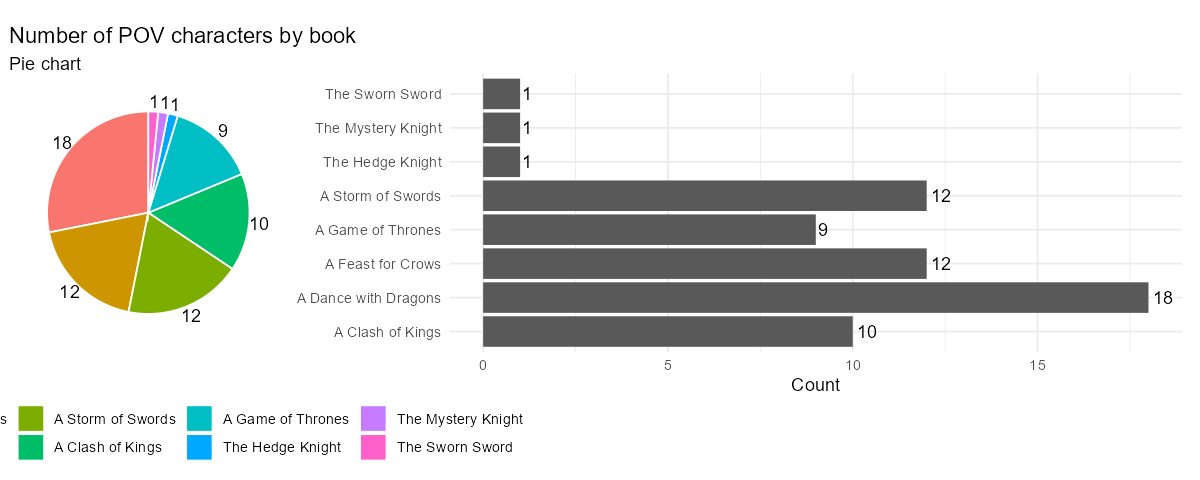
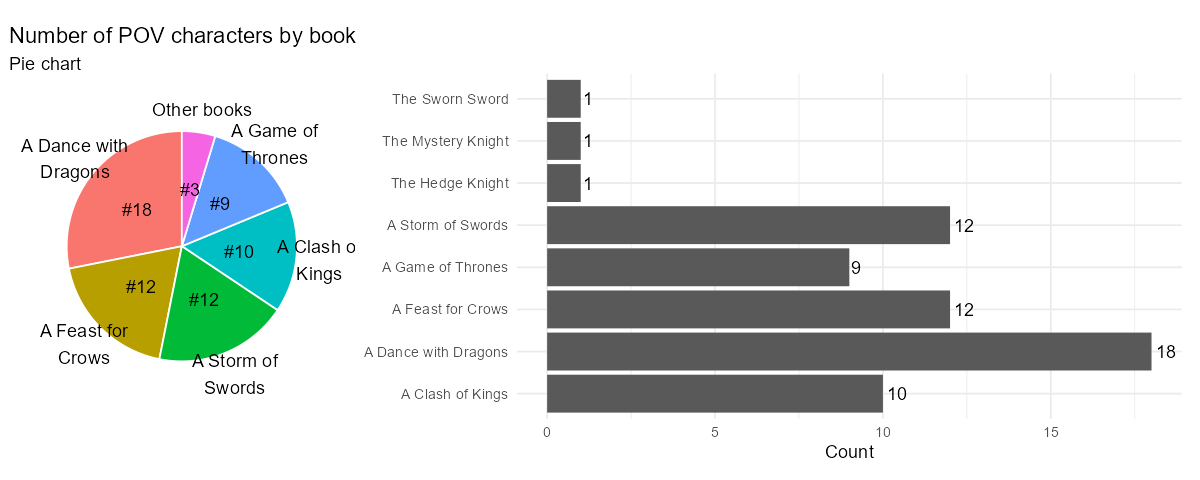
Laga kökurit til að matcha hönnunarráðum

Changed region(s): [[0.0, 0.1562, 0.9867, 0.9688], [0.6783, 0.9375, 0.74, 0.9688]]

diff --git a/GitBook/storytelling/visuals_minor.md b/GitBook/storytelling/visuals_minor.md
@@ -20,7 +20,7 @@ tölfræðileg atriði eins og miðgildi, lágmarks- og hámarksgildi, og hverni
 fjórðungum. Þrátt fyrir að vera mjög lýsandi fyrir sérfræðinga getur almennur markhópur fundist þau
 óskiljanleg og því ætti að nota þau með varúð þegar aðrir en vísindamenn eru áhorfendur.
 
-### Hvað er kassarit?
+####  Hvað er kassarit?
 
 Kassarit—stundum kallað kassar og strokur (e. box and whisker plot)—er mynd sem sýnir ýmsar
 samantektartölur í einni sýn. Kassarit sýnir:
@@ -35,18 +35,18 @@ Kassinn sjálfur sýnir fjórðungana, þar sem línan í miðjum kassanum tákn
 (whiskers) sýna hámarks- og lágmarksgildi, en ef það eru útlagar (e. outliers), eru þeir sýndir sem
 sérstakir punktar fyrir utan strokurnar.
 
-### Hvenær á að nota kassarit?
+####  Hvenær á að nota kassarit?
 
 Kassarit eru gagnleg þegar þú vilt bera saman dreifingu margra gagnasafna hlið við hlið, t.d.
 samanburð á einkunnum eða launadreifingu. Þau eru einnig hentug til að greina frávik og sjá hvort
 dreifing er breið eða þétt.
 
-### Hvenær á að sleppa kassaritum?
+####  Hvenær á að sleppa kassaritum?
 
 Ef markhópurinn er ekki vel þjálfaður í tölfræði getur verið betra að nota einfaldari gröf. Kassarit
 sýna ekki dreifingu eins vel og dreifirit eða stuðlarit, sem getur falið mikilvægar upplýsingar.
 
-### Afbrigði af kassariti:
+####  Afbrigði af kassariti
 
 - **Breytibreið kassarit - variable width boxplot**: Kassar sýna stærð hópanna.
 - **Kassarit með skörðum - notched boxplot**: Sýna öryggisbil í kringum miðgildi.
@@ -62,34 +62,34 @@ gagnrýnda og misnotaða. Ástæðan er einföld: augað á erfitt með að grei
 sérstaklega þegar sneiðar eru svipaðar að stærð. Þrátt fyrir þetta geta skífurit verið nytsamleg í
 ákveðnum tilvikum, sérstaklega þegar markmiðið er að sýna hlutfallslega skiptingu á einfaldan hátt.
 
-### Hvað er skífurit?
+####  Hvað er skífurit?
 
 Skífurit sýnir samband hluta og heildar með því að skipta gögnum niður í sneiðar sem samsvara
 hlutföllum hverrar breytu af heildinni. Allar sneiðar samanlagt mynda 100%. Þó fólk laðist að
 hringforminu, sem táknar heildina, er erfitt fyrir okkur að bera saman sneiðar, sérstaklega þegar
 þær eru nálægt því að vera jafnstórar.
 
-### Hvenær á að nota skífurit?
+####  Hvenær á að nota skífurit?
 
 Skífurit hentar vel þegar þú vilt sýna hlutfall einstakra flokka í samanburði við heildina. Það er
 hentugt til að sýna að einn hluti af gögnunum sé tiltölulega stærri eða minni en aðrir.
 
-### Hvenær á ekki að nota skífurit?
+####  Hvenær á ekki að nota skífurit?
 
 Þegar gögn þurfa nákvæman samanburð eða eru fleiri en fáir flokkar, ætti að forðast skífurit. Augað
 á erfitt með að meta hlutföll af heild þegar sneiðar eru líkar að stærð. Í slíkum tilvikum er betra
 að nota stöplarit eða línurit.
 
-### Hönnun ráðleggingar fyrir skífurit:
+####  Hönnun ráðleggingar fyrir skífurit
 
-- Forðastu 3D og sprengiskífurit sem rugla lestur gagna.
+- Forðastu 3D og sprengiskífurit (exploding pie chart) sem rugla lestur gagna.
 - Notaðu ekki of margar sneiðar; samræmdu smærri flokka í „Allir aðrir.“
 - Raðaðu sneiðunum eftir stærð til að auðvelda lestur.
 - Settu merkingar beint á sneiðarnar í stað þess að nota skýringarlista.
 
 ![Fjöldi sögumanna eftir bókum í GOT sem skífurit og stöplarit](figures/piechart_vs_barchart.png)
 
-Í þessum myndum er fjöldi sögupersóna með sjónarhorn (POV characters) eftir bók í Game of Thrones
+Í þessum myndum er fjöldi sögupersóna með sjónarhorn (POV characters) eftir bók í _Game of Thrones_
 sýndur bæði sem stöplarit og sem skífurit. Stöplarit býður upp á skýran samanburð þar sem auðvelt er
 að sjá nákvæman fjölda fyrir hverja bók, sem er sérstaklega gagnlegt þegar áherslan er á nákvæmar
 tölur. Skífurit dregur fram hlutfallslegan samanburð og sýnir hversu mikið hver flokkur leggur til
